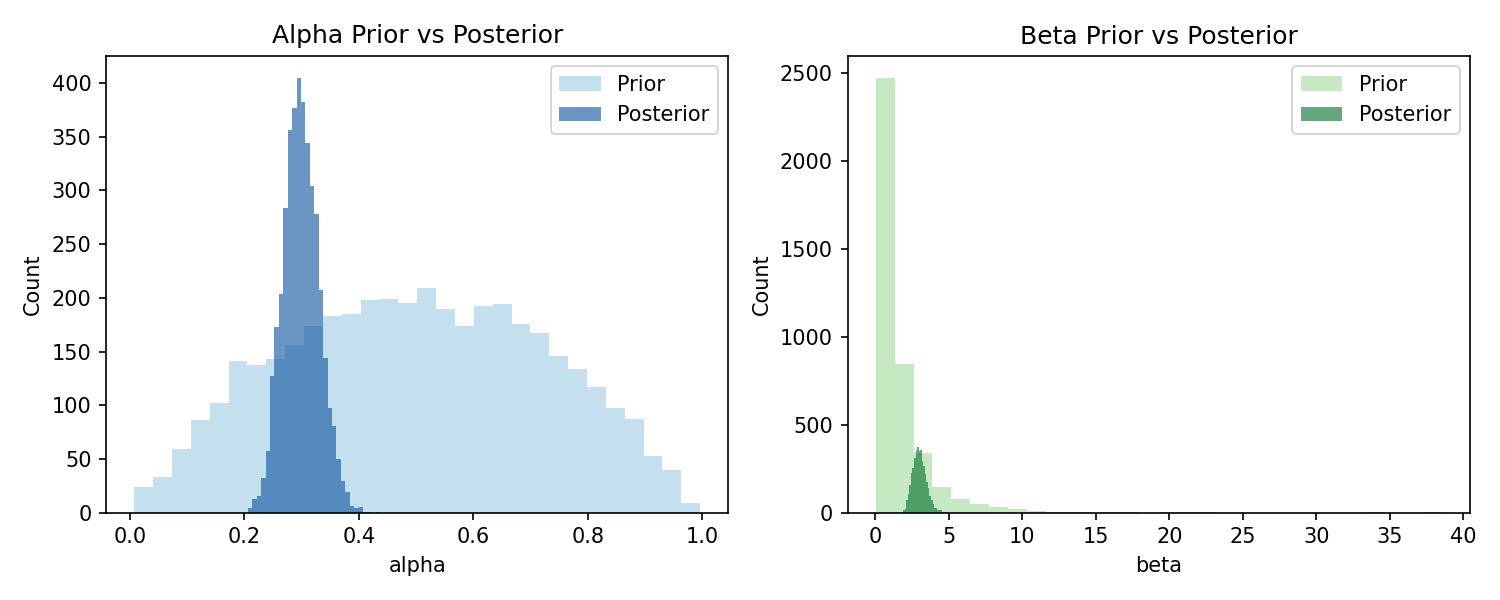
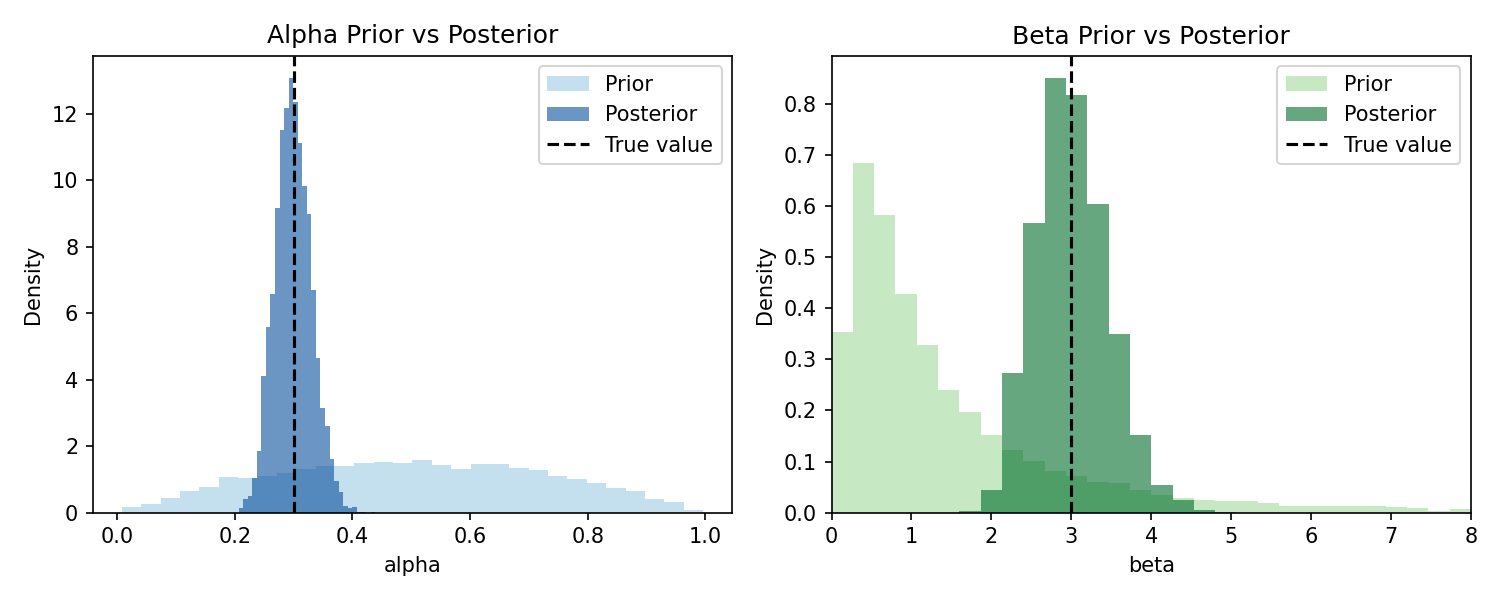
Update validation figures and report based on feedback

diff --git a/scripts/model_checks.py b/scripts/model_checks.py
@@ -131,18 +131,85 @@ def save_check_plots(prior_choice, prior_switch, post_pred, prior_post):
     plt.close(fig)
 
     fig, axes = plt.subplots(1, 2, figsize=(10, 4))
-    axes[0].hist(prior_post["alpha_prior"], bins=30, alpha=0.6, label="Prior", color="#9ecae1")
-    axes[0].hist(prior_post["alpha_post"], bins=30, alpha=0.6, label="Posterior", color="#08519c")
-    axes[0].set_title("Alpha Prior vs Posterior")
-    axes[0].set_xlabel("alpha")
-    axes[0].set_ylabel("Count")
+    axes[0].hist(prior_choice, bins=25, density=True, color="#9ecae1", alpha=0.65, label="Prior predictive")
+    axes[0].hist(
+        post_pred["pp_choice_rate"],
+        bins=25,
+        density=True,
+        color="#a1d99b",
+        alpha=0.65,
+        label="Posterior predictive",
+    )
+    axes[0].axvline(post_pred["obs_choice_rate"], color="black", linestyle="--", label="Observed")
+    axes[0].set_title("Predictive Check Overlay: Choice Rate")
+    axes[0].set_xlabel("Mean choice rate")
+    axes[0].set_ylabel("Density")
     axes[0].legend()
 
-    axes[1].hist(prior_post["beta_prior"], bins=30, alpha=0.6, label="Prior", color="#a1d99b")
-    axes[1].hist(prior_post["beta_post"], bins=30, alpha=0.6, label="Posterior", color="#006d2c")
+    axes[1].hist(prior_switch, bins=25, density=True, color="#9ecae1", alpha=0.65, label="Prior predictive")
+    axes[1].hist(
+        post_pred["pp_switch_rate"],
+        bins=25,
+        density=True,
+        color="#a1d99b",
+        alpha=0.65,
+        label="Posterior predictive",
+    )
+    axes[1].axvline(post_pred["obs_switch_rate"], color="black", linestyle="--", label="Observed")
+    axes[1].set_title("Predictive Check Overlay: Switch Rate")
+    axes[1].set_xlabel("Switch rate")
+    axes[1].set_ylabel("Density")
+    axes[1].legend()
+
+    fig.tight_layout()
+    fig.savefig(FIG_DIR / "figure_2b_predictive_check_overlay.png", dpi=150)
+    plt.close(fig)
+
+    fig, axes = plt.subplots(1, 2, figsize=(10, 4))
+    axes[0].hist(
+        prior_post["alpha_prior"],
+        bins=30,
+        density=True,
+        alpha=0.6,
+        label="Prior",
+        color="#9ecae1",
+    )
+    axes[0].hist(
+        prior_post["alpha_post"],
+        bins=30,
+        density=True,
+        alpha=0.6,
+        label="Posterior",
+        color="#08519c",
+    )
+    axes[0].axvline(0.3, color="black", linestyle="--", label="True value")
+    axes[0].set_title("Alpha Prior vs Posterior")
+    axes[0].set_xlabel("alpha")
+    axes[0].set_ylabel("Density")
+    axes[0].legend()
+
+    beta_bins = np.linspace(0, 8, 31)
+    axes[1].hist(
+        prior_post["beta_prior"],
+        bins=beta_bins,
+        density=True,
+        alpha=0.6,
+        label="Prior",
+        color="#a1d99b",
+    )
+    axes[1].hist(
+        prior_post["beta_post"],
+        bins=beta_bins,
+        density=True,
+        alpha=0.6,
+        label="Posterior",
+        color="#006d2c",
+    )
+    axes[1].axvline(3.0, color="black", linestyle="--", label="True value")
     axes[1].set_title("Beta Prior vs Posterior")
     axes[1].set_xlabel("beta")
-    axes[1].set_ylabel("Count")
+    axes[1].set_ylabel("Density")
+    axes[1].set_xlim(0, 8)
     axes[1].legend()
 
     fig.tight_layout()
@@ -160,7 +227,7 @@ def main():
     prior_post = prior_posterior_update_summary(fit)
 
     save_check_plots(prior_choice, prior_switch, post_pred, prior_post)
-    print("Saved figures 1-3 to figures/.")
+    print("Saved figures 1, 2, 2b, and 3 to figures/.")
 
 
 if __name__ == "__main__":

diff --git a/scripts/parameter_recovery.py b/scripts/parameter_recovery.py
@@ -180,12 +180,35 @@ def save_recovery_plots(results, summary):
     fig.savefig(FIG_DIR / "figure_6_recovery_error_by_trials.png", dpi=150)
     plt.close(fig)
 
+    trial_counts = sorted({int(row["T"]) for row in results})
+    fig, axes = plt.subplots(1, len(trial_counts), figsize=(4 * len(trial_counts), 4), sharex=True, sharey=True)
+    if len(trial_counts) == 1:
+        axes = [axes]
+
+    beta_lims = [0, max(beta_true.max(), beta_hat.max())]
+    for ax, trial_count in zip(axes, trial_counts):
+        rows_at_t = [row for row in results if int(row["T"]) == trial_count]
+        beta_true_t = np.asarray([row["beta_true"] for row in rows_at_t], dtype=float)
+        beta_hat_t = np.asarray([row["beta_hat"] for row in rows_at_t], dtype=float)
+        ax.scatter(beta_true_t, beta_hat_t, alpha=0.75, color="#2ca25f")
+        ax.plot(beta_lims, beta_lims, linestyle="--", color="black")
+        ax.set_title(f"T = {trial_count}")
+        ax.set_xlabel("True beta")
+        ax.set_xlim(beta_lims)
+        ax.set_ylim(beta_lims)
+
+    axes[0].set_ylabel("Recovered beta")
+    fig.suptitle("Beta Recovery by Trial Count", y=0.98)
+    fig.tight_layout(rect=[0, 0, 1, 0.93])
+    fig.savefig(FIG_DIR / "figure_7_beta_recovery_by_trials.png", dpi=150)
+    plt.close(fig)
+
 
 def main():
     results = run_recovery()
     summary = summarize_recovery(results)
     save_recovery_plots(results, summary)
-    print("Saved figures 4-6 and recovery tables to data/recovery and figures/.")
+    print("Saved figures 4-7 and recovery tables to data/recovery and figures/.")
 
 
 if __name__ == "__main__":

diff --git a/scripts/run_analysis.py b/scripts/run_analysis.py
@@ -41,7 +41,7 @@ def main():
     summary = summarize_recovery(results)
     save_recovery_plots(results, summary)
 
-    print("Saved assignment figures 1-6 to figures/.")
+    print("Saved assignment figures 1-7, including figure 2b, to figures/.")
 
 
 if __name__ == "__main__":

diff --git a/report/assignment_report.md b/report/assignment_report.md
@@ -83,15 +83,21 @@ Figure 2 presents the posterior predictive checks.
 
 In both panels, the observed statistic falls within the main body of the posterior predictive distribution. This indicates that the model captures these coarse behavioural summaries adequately. Although this does not prove that the model is correct in every respect, it does suggest that the model is not grossly inconsistent with the data it was fitted to.
 
+To provide a clearer overview, prior predictive and posterior predictive distributions were also overlaid in a single figure.
+
+![Figure 2b. Prior predictive and posterior predictive distributions overlaid with the observed statistic marked by a dashed line.](../figures/figure_2b_predictive_check_overlay.png)
+
+The overlay shows that the posterior predictive distributions are narrower and more closely centered on the observed summaries than the prior predictive distributions. This is the expected pattern if the data are informative: before fitting, the model allows a broader range of plausible behaviour, whereas after fitting, predictive mass shifts toward the statistics actually observed in the dataset.
+
 ### 5.3 Prior Posterior Update Checks
 
 Prior-posterior comparisons were used to examine whether the data meaningfully updated beliefs about the model parameters. If the posterior remained nearly identical to the prior, that would indicate that the data were weakly informative or that the model was poorly identified.
 
-Figure 3 compares the prior and posterior distributions of the two parameters.
+Figure 3 compares the prior and posterior distributions of the two parameters using density-normalized histograms, with the true generating value overlaid in each panel.
 
 ![Figure 3. Prior posterior comparison for alpha and beta.](../figures/figure_3_prior_posterior_update.png)
 
-For `alpha`, the posterior is substantially narrower than the prior and is concentrated around a moderate learning-rate region. For `beta`, the posterior is also more concentrated than the prior, although it remains more skewed and diffuse than the posterior for `alpha`. Overall, the figure suggests that the data do inform both parameters, but that `beta` is estimated with less precision.
+For `alpha`, the posterior is substantially narrower than the prior and is concentrated close to the true generating value of `0.3`. For `beta`, the posterior is also more concentrated than the prior and is centered in the region of the true value `3.0`, although it remains more skewed and diffuse than the posterior for `alpha`. Presenting the comparison on a density scale is especially important for `beta`, because the prior is right skewed and would otherwise dominate the figure visually through raw count differences alone. Overall, the figure suggests that the data do inform both parameters, but that `beta` is estimated with less precision.
 
 ## 6. Parameter Recovery
 
@@ -126,6 +132,12 @@ Figure 6 summarizes how recovery error changes as trial count increases.
 ![Figure 6. Mean absolute recovery error as a function of trial count for alpha and beta.](../figures/figure_6_recovery_error_by_trials.png)
 
 For `alpha`, the reduction in error is close to monotonic. For `beta`, the decline is less regular, but the best recovery is still obtained at the longest trial count tested.
+
+To assess bias more directly, beta recovery can also be inspected separately for each trial count.
+
+![Figure 7. Beta recovery shown separately for each trial count. The dashed line indicates perfect recovery.](../figures/figure_7_beta_recovery_by_trials.png)
+
+This figure shows more clearly what is hidden by the pooled scatter and the mean absolute error summary alone. At `T = 50`, the recovered beta values are relatively dispersed around the identity line, indicating unstable estimation. As trial count increases, the points become more tightly aligned with the identity line, although the higher beta conditions still show more spread than the lower beta conditions. This confirms that longer sequences improve beta recovery not only in average error but also in bias structure.
 
 Taken together, these results suggest that the model recovers `alpha` reasonably well and `beta` only moderately well. A cautious conclusion is that `T = 50` is too short for stable recovery, `T = 100` may be usable but remains noisy, and `T >= 200` is a more defensible lower bound for reliable parameter estimation in this model. Among the tested conditions, `T = 400` produces the strongest recovery overall.
 